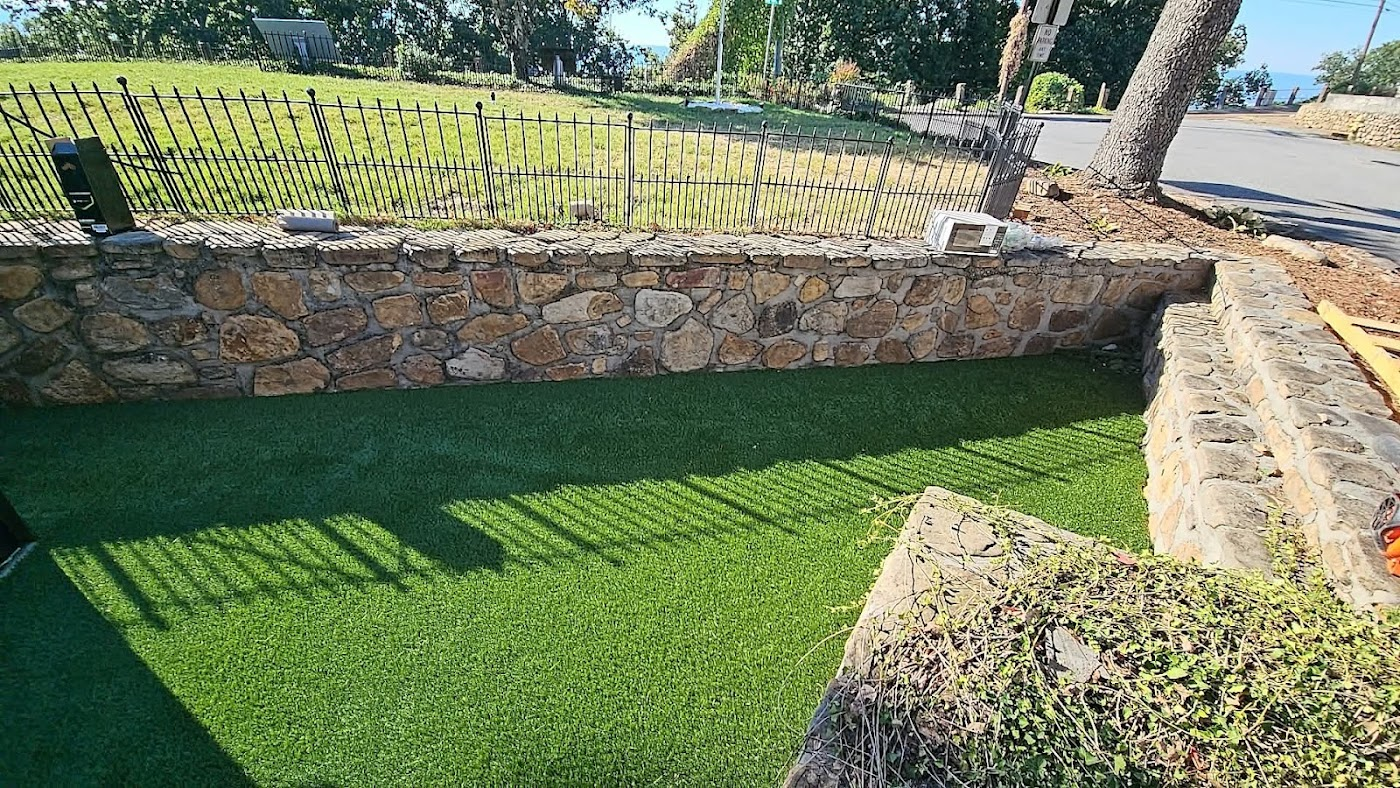
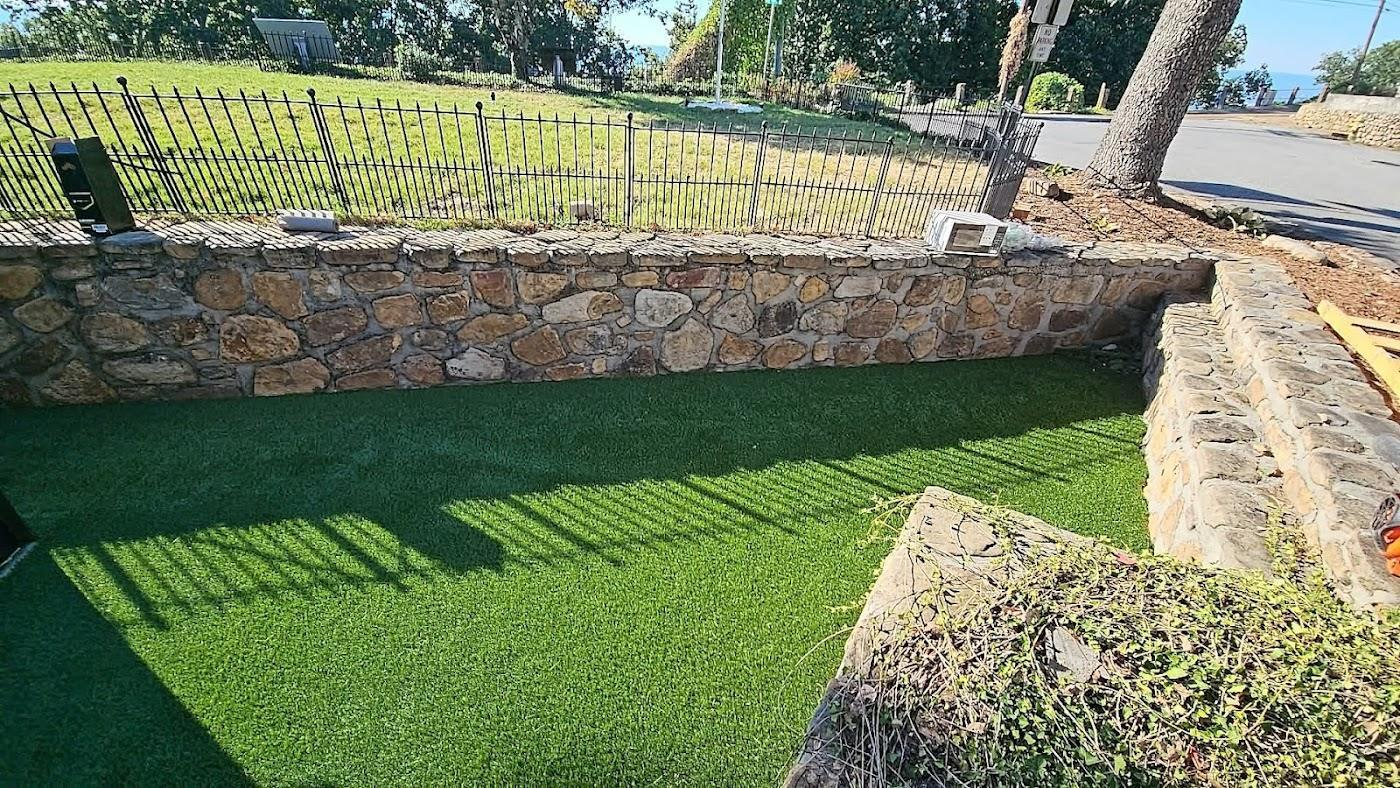
Preview: forest-landscaping-services-llc

diff --git a/forest-landscaping-services-llc/index.html b/forest-landscaping-services-llc/index.html
@@ -108,10 +108,23 @@ footer .wrap{display:flex;justify-content:space-between;gap:20px;flex-wrap:wrap;
 .bar a.alt{background:var(--card);color:var(--ink);border:1px solid var(--line)}
 @media (max-width:900px){.hgrid{grid-template-columns:1fr}.gal{grid-template-columns:1fr 1fr;grid-auto-rows:150px}nav{display:none}.grid,.steps{grid-template-columns:1fr 1fr}.split,.quote{grid-template-columns:1fr}.trust .wrap{grid-template-columns:1fr 1fr}.trust div:nth-child(3){border-left:0}.trust div:nth-child(n+3){border-top:1px solid var(--line)}}
 @media (max-width:600px){.grid,.steps{grid-template-columns:1fr}.hero .wrap{padding:56px 20px 64px}section{padding:64px 0}.quote{padding:30px 22px;border-radius:20px}.call{display:none}.bar{display:flex}.logo small{display:none}}
+.pv a{color:#f5b83d;font-weight:700;text-decoration:none;margin-left:6px}
+.claim{background:var(--ink);color:#f2efe8;padding:72px 0}
+.claim h2{color:#fff;margin:10px 0 12px}.claim p{color:#c9c5bc;max-width:52ch;margin:0}
+.cl{display:grid;grid-template-columns:1.1fr 1fr;gap:40px;align-items:center}
+.t3{display:grid;grid-template-columns:repeat(3,1fr);gap:10px;margin-top:26px}
+.t3 div{border:1px solid rgba(255,255,255,.16);border-radius:14px;padding:14px}
+.t3 b{display:block;font-size:24px;color:#fff}.t3 span{font-size:13px;color:#c9c5bc;line-height:1.35;display:block;margin-top:4px}
+.clb{display:grid;gap:10px}
+.clb a{display:block;text-align:center;padding:16px;border-radius:12px;font-weight:700;text-decoration:none;border:1px solid rgba(255,255,255,.25);color:#fff}
+.clb a.go{background:#f5b83d;color:#14140f;border-color:#f5b83d}
+.clb small{color:#9e9a91;text-align:center;font-size:13px}
+@media (max-width:900px){.cl{grid-template-columns:1fr}.t3{grid-template-columns:1fr 1fr 1fr}}
+@media (max-width:600px){.claim{padding:56px 0 110px}.t3 b{font-size:20px}}
 </style>
 </head>
 <body>
-<div class="pv"><b>Free preview</b> built for Forest Landscaping services LLC by Cole Ormont · Not live yet</div>
+<div class="pv"><b>Free preview</b> built for Forest Landscaping services LLC by Cole Ormont · Not live yet<a href="#claim">Make it yours ↓</a></div>
 <header><div class="wrap">
 <a class="logo" href="#top"><span class="mark">FL</span><span><b>Forest Landscaping services LLC</b><small>Landscaping · Chattanooga, TN</small></span></a>
 <nav><a href="#services">Services</a><a href="#how">How it works</a><a href="#area">Service area</a><a href="#faq">FAQ</a></nav>
@@ -174,6 +187,12 @@ footer .wrap{display:flex;justify-content:space-between;gap:20px;flex-wrap:wrap;
 </form>
 </div></div></section>
 
+<section id="claim" class="claim"><div class="wrap"><div class="cl">
+<div><div class="eyebrow" style="color:#f5b83d">For Forest Landscaping services</div><h2>Like it? It can be live this week.</h2>
+<p>This is a free preview built for your business. Keep it as is or tell Cole what to change. Your domain, your site, you own it.</p>
+<div class="t3"><div><b>$399</b><span>This page, live on your own domain</span></div><div><b>$650</b><span>Full site with your photos and gallery</span></div><div><b>$850+</b><span>Everything plus online booking</span></div></div></div>
+<div class="clb"><a class="go" href="sms:+15088077554?&body=Hi%20Cole%2C%20I%20saw%20the%20preview%20you%20made%20for%20Forest%20Landscaping%20services.%20I%27m%20interested.">Text Cole about this site</a><a href="tel:+15088077554">Call Cole · (508) 807-7554</a><small>Half to start, half when it's live. No contracts.</small></div>
+</div></div></section>
 <footer><div class="wrap"><span><b style="color:var(--ink)">Forest Landscaping services LLC</b> · Landscaping · Chattanooga, TN</span><span><a href="tel:+14233267093">423-326-7093</a></span></div></footer>
 <div class="bar"><a href="tel:+14233267093">Call</a><a class="alt" href="#quote">Free quote</a></div>
 <script>
